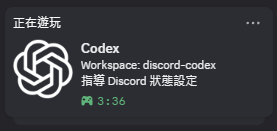
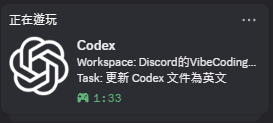
fix: align Codex hooks and update example image

diff --git a/README.md b/README.md
@@ -20,7 +20,7 @@ Show a local Discord Rich Presence while the Codex desktop app is running. The p
 
 ## Example
 
-![Discord Rich Presence showing the active workspace and task title](plugins/codex-discord-presence/assets/workspace-task-example.png)
+![Discord Rich Presence showing Codex activity, workspace, and task title](plugins/codex-discord-presence/assets/workspace-task-example.png)
 
 ## Install
 